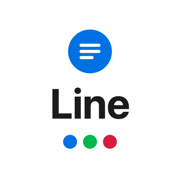
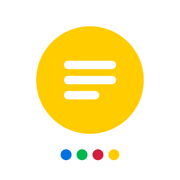
옐로(개나리) 테마 추가, 색 점 4개, 새 홈 화면 아이콘(흰 바탕 + 앱 색 큰 원 + 흰 그림)
Claude-Session: https://claude.ai/code/session_01AAGSzkox3hKXTnKDzvxEBJ

Changed region(s): [[0.1944, 0.1389, 0.8056, 0.8889]]

diff --git a/style.css b/style.css
@@ -1,4 +1,4 @@
-/* AIN Line 스타일 v2 — 색·크기는 ../ain-todo/plan/design-guide.md(공통 디자인 가이드)를 따른다. 기본 틀은 AIN Days와 같음 */
+/* AIN Line 스타일 v3 — 색·크기는 ../ain-todo/plan/design-guide.md(공통 디자인 가이드)를 따른다. 기본 틀은 AIN Days와 같음 */
 
 :root {
   --bg: #F2F2F7;
@@ -78,17 +78,21 @@
   color-scheme: dark;
 }
 
-/* 테마 색 (설정에서 고름, 계정마다 기억): 블루(기본) · 그린(팬톤 7481 C) · 레드
+/* 테마 색 (설정에서 고름, 계정마다 기억): 블루(기본) · 그린(팬톤 7481 C) · 레드 · 옐로
    - 버튼·선택한 날짜는 --primary, 흰 바탕 위 작은 글씨·아이콘은 --primary-text
-   - 그린 버튼의 흰 글씨는 대비 2.66으로 기준(4.5)보다 낮음: 사용자가 고른 색이라 예외 (디자인 가이드 참고) */
+   - 그린 버튼의 흰 글씨는 대비 2.66으로 기준(4.5)보다 낮음: 사용자가 고른 색이라 예외 (디자인 가이드 참고)
+   - 옐로 버튼의 흰 글씨도 대비 1.51로 낮음: 네 테마 버튼을 같게 하려고 사용자가 고른 예외. 라이트의 작은 글씨·아이콘만 진한 황토색 */
 :root[data-accent="green"] { --primary: #00B74F; --primary-text: #007B33; }
 :root[data-accent="red"] { --primary: #D31E3D; --primary-text: #D31E3D; }
+:root[data-accent="yellow"] { --primary: #FFCC00; --primary-text: #8C6500; }
 @media (prefers-color-scheme: dark) {
   :root:not([data-theme="light"])[data-accent="green"] { --primary-text: #00B74F; }
   :root:not([data-theme="light"])[data-accent="red"] { --primary-text: #FF4048; }
+  :root:not([data-theme="light"])[data-accent="yellow"] { --primary-text: #FFCC00; }
 }
 :root[data-theme="dark"][data-accent="green"] { --primary-text: #00B74F; }
 :root[data-theme="dark"][data-accent="red"] { --primary-text: #FF4048; }
+:root[data-theme="dark"][data-accent="yellow"] { --primary-text: #FFCC00; }
 
 * { box-sizing: border-box; }
 html { -webkit-text-size-adjust: 100%; }
@@ -378,10 +382,11 @@ body.locked { overflow: hidden; }
 .splash-word { font-size: 24px; line-height: 1; margin: 0 0 16px; animation: splash-up .5s ease-out 1s both; }
 .splash-dots { display: flex; gap: 7px; }
 .splash-dots i { width: 8px; height: 8px; border-radius: 4px; animation: splash-dot .3s cubic-bezier(.3, 1.6, .5, 1) both; }
-/* 색 점은 세 테마 색 (테마와 상관없이 항상 같음) */
+/* 색 점은 네 테마 색 (테마와 상관없이 항상 같음) */
 .splash-dots i:nth-child(1) { background: #0071E3; animation-delay: 1.3s; }
 .splash-dots i:nth-child(2) { background: #00B74F; animation-delay: 1.4s; }
 .splash-dots i:nth-child(3) { background: #D31E3D; animation-delay: 1.5s; }
+.splash-dots i:nth-child(4) { background: #FFCC00; animation-delay: 1.6s; }
 @keyframes splash-spread { from { transform: scale(.55); opacity: 0; } 40% { opacity: 1; } to { transform: none; opacity: 1; } }
 @keyframes splash-draw { from { stroke-dashoffset: 100; opacity: 0; } 2% { opacity: 1; } to { stroke-dashoffset: 0; opacity: 1; } }
 @keyframes splash-dot { from { transform: scale(0); } to { transform: none; } }

diff --git a/index.html b/index.html
@@ -15,20 +15,20 @@
     try {
       const s = JSON.parse(localStorage.getItem('ainLine')).settings;
       if (s.theme === 'light' || s.theme === 'dark') document.documentElement.setAttribute('data-theme', s.theme);
-      if (s.accent === 'green' || s.accent === 'red') document.documentElement.setAttribute('data-accent', s.accent);
+      if (s.accent === 'green' || s.accent === 'red' || s.accent === 'yellow') document.documentElement.setAttribute('data-accent', s.accent);
     } catch (e) {}
   </script>
-  <link rel="stylesheet" href="style.css?v=2">
+  <link rel="stylesheet" href="style.css?v=3">
 </head>
 <body>
-  <!-- 시작 화면 (앱을 새로 열 때만, 약 2초): 파란 원이 펼쳐지고 → 글 세 줄이 한 줄씩 쓰임 → 이름 → 색 점 3개 (네 앱 공통 순서) -->
+  <!-- 시작 화면 (앱을 새로 열 때만, 약 2초): 파란 원이 펼쳐지고 → 글 세 줄이 한 줄씩 쓰임 → 이름 → 색 점 4개 (네 앱 공통 순서) -->
   <div class="splash" id="splash" aria-hidden="true">
     <div class="splash-mark">
       <div class="splash-disc">
         <svg viewBox="0 0 64 64"><circle class="splash-bg" cx="32" cy="32" r="32"/><path class="splash-draw" pathLength="100" d="M19 23 H45" style="--at:0.55s;--d:0.18s"/><path class="splash-draw" pathLength="100" d="M19 32 H45" style="--at:0.73s;--d:0.18s"/><path class="splash-draw" pathLength="100" d="M19 41 H35" style="--at:0.91s;--d:0.14s"/></svg>
       </div>
       <div class="wordmark splash-word"><b>AIN</b> Line</div>
-      <div class="splash-dots"><i></i><i></i><i></i></div>
+      <div class="splash-dots"><i></i><i></i><i></i><i></i></div>
     </div>
   </div>
 
@@ -70,6 +70,7 @@
           <button type="button" data-v="blue"><i class="sw" style="background:#0071E3"></i>블루</button>
           <button type="button" data-v="green"><i class="sw" style="background:#00B74F"></i>그린</button>
           <button type="button" data-v="red"><i class="sw" style="background:#D31E3D"></i>레드</button>
+          <button type="button" data-v="yellow"><i class="sw" style="background:#FFCC00"></i>옐로</button>
         </div></div></div>
         <p class="hint">버튼과 강조 색이 바뀌어요. 이 계정의 모든 기기에 같이 적용돼요.</p>
 
@@ -144,7 +145,7 @@
   <script src="https://www.gstatic.com/firebasejs/10.12.2/firebase-app-compat.js"></script>
   <script src="https://www.gstatic.com/firebasejs/10.12.2/firebase-auth-compat.js"></script>
   <script src="https://www.gstatic.com/firebasejs/10.12.2/firebase-firestore-compat.js"></script>
-  <script src="app.js?v=1"></script>
+  <script src="app.js?v=2"></script>
   <script src="write.js?v=1"></script>
   <script src="recall.js?v=1"></script>
   <script src="sheet.js?v=1"></script>

diff --git a/app.js b/app.js
@@ -1,4 +1,4 @@
-// AIN Line 공통 v1: 날짜 도우미, 칸 정의, 저장소, 상태, 화면 모드·테마 색, 아래에서 올라오는 창
+// AIN Line 공통 v2: 날짜 도우미, 칸 정의, 저장소, 상태, 화면 모드·테마 색, 아래에서 올라오는 창
 
 const STORE_KEY = 'ainLine';
 const appEl = document.getElementById('app');
@@ -57,7 +57,7 @@ function weekLabelsHtml() {
 let state = {
   entries: {},
   questions: [],
-  // theme: light | dark | auto (기기마다), accent: blue | green | red, weekStart: 0 | 1 (계정마다)
+  // theme: light | dark | auto (기기마다), accent: blue | green | red | yellow, weekStart: 0 | 1 (계정마다)
   settings: { theme: 'auto', accent: 'blue', weekStart: 0 }
 };
 
@@ -108,7 +108,7 @@ function applyTheme() {
   const root = document.documentElement;
   if (mode === 'light' || mode === 'dark') root.setAttribute('data-theme', mode);
   else root.removeAttribute('data-theme');
-  if (accent === 'green' || accent === 'red') root.setAttribute('data-accent', accent);
+  if (accent === 'green' || accent === 'red' || accent === 'yellow') root.setAttribute('data-accent', accent);
   else root.removeAttribute('data-accent');
 }
 
